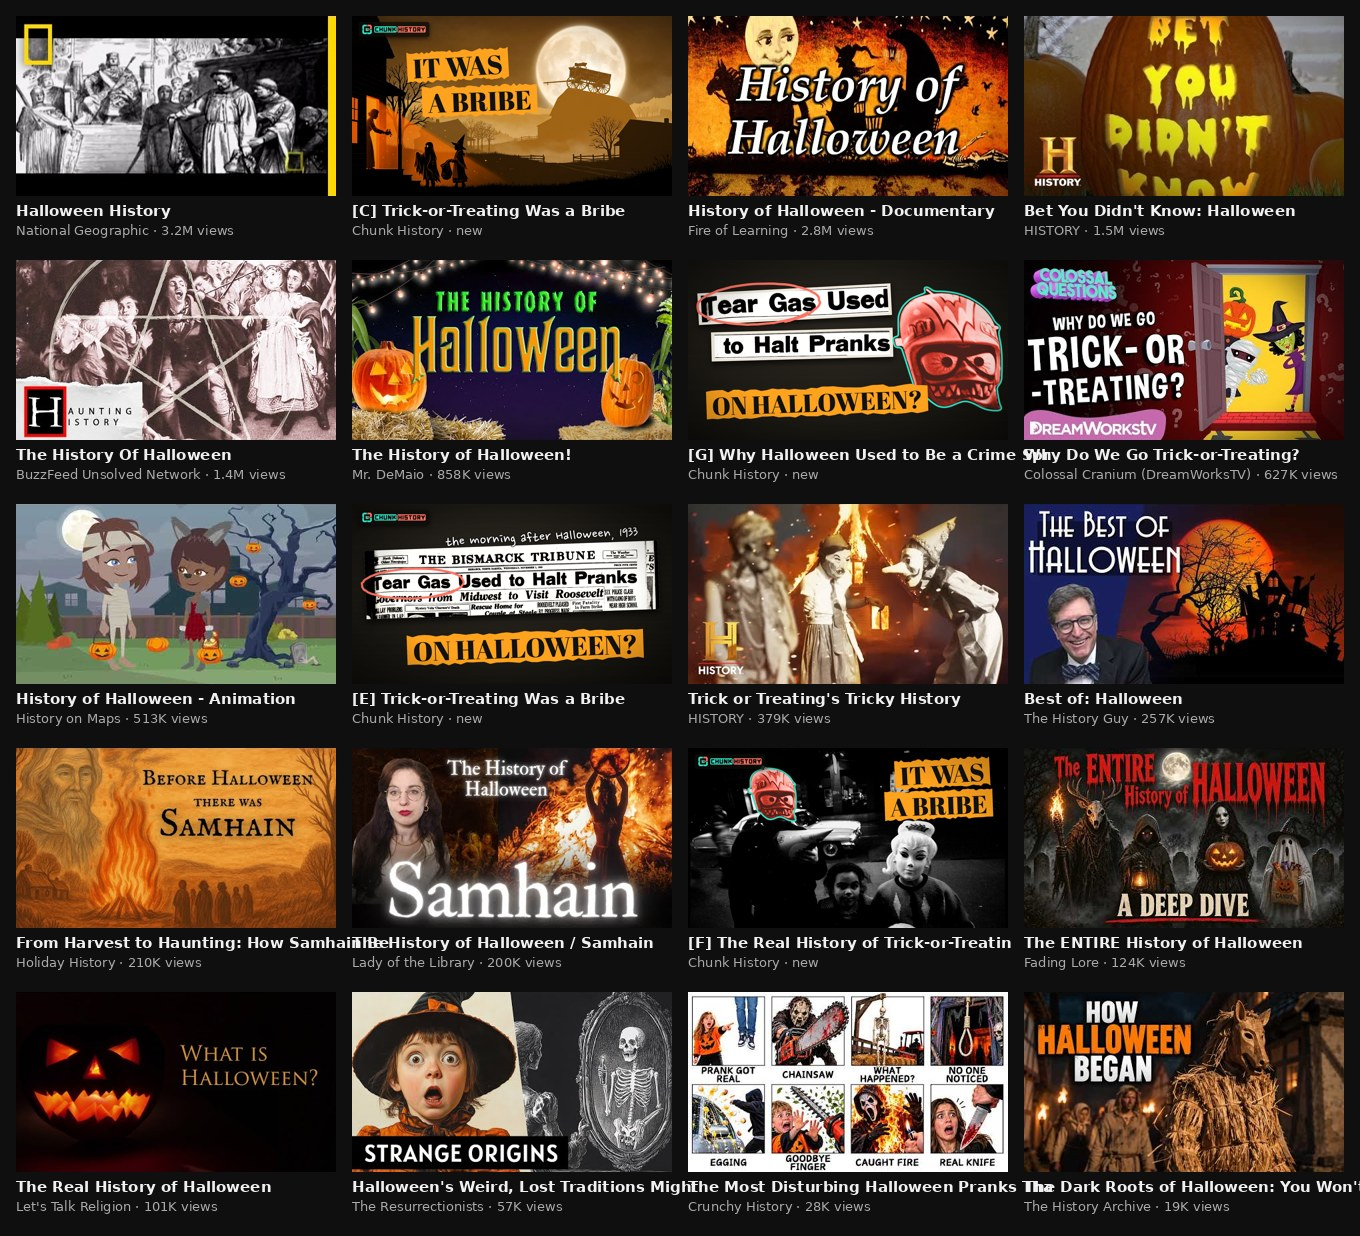
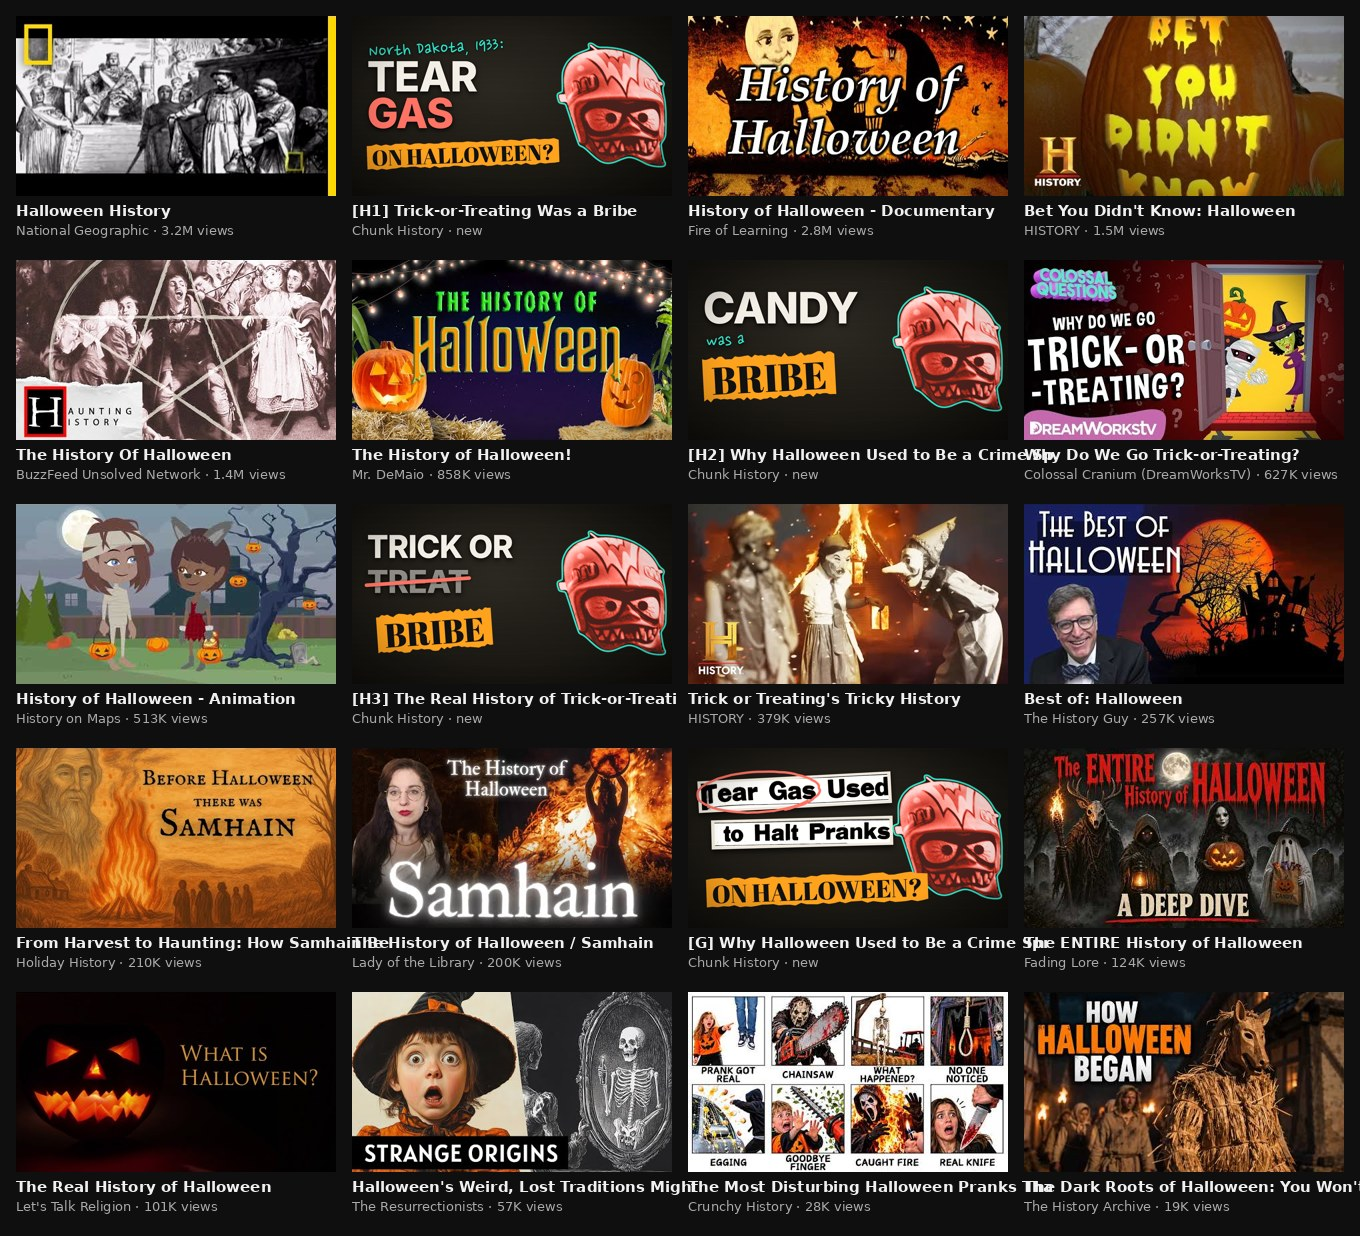
Halloween: clean-type thumbnail concepts H1-H4, feed mock takes concept keys
Claude-Session: https://claude.ai/code/session_017aRbDonm1FF42gZig9hAtV

diff --git a/projects/Halloween_Bribe/src/ThumbsHalloween.tsx b/projects/Halloween_Bribe/src/ThumbsHalloween.tsx
@@ -6,7 +6,7 @@
 //   F  · masked kids, 1964 (Angelo Rizzuto, LOC), one mask in coral.
 import React from 'react';
 import {AbsoluteFill, Img, staticFile} from 'remotion';
-import {Finish, Highlight, Loop, Note, PALETTES, PaletteCtx, Picture, Tint, Traced} from './kit/Kit';
+import {Finish, Highlight, JF, Loop, Note, PALETTES, PaletteCtx, Picture, Tint, Traced} from './kit/Kit';
 import {DarkPaper} from './kit/common';
 import {fill} from './kit/shell';
 import {MASKS} from './masks';
@@ -133,4 +133,80 @@ export const ThumbG: React.FC = () => {
   );
 };
 
-export const HALLOWEEN_THUMBS: Record<string, React.FC> = {C: ThumbC, C2: ThumbC2, D: ThumbD, E: ThumbE, F: ThumbF, G: ThumbG};
+
+// H1–H4 · clean type instead of newsprint (user note): big bold words in mixed faces and colours, the coral mask on the right.
+const CREAM = '#f4efe6';
+const TEALC = '#2FE0C4';
+const ORANGE_T = '#FF9F1C';
+const MaskHead: React.FC<{x?: number; y?: number; sc?: number}> = ({x = 1240, y = 170, sc = 1.45}) => {
+  const size: [number, number] = [3000, 2028];
+  const m = MASKS.kids;
+  const place = {left: x - 569 * sc, top: y - 178 * sc, scale: sc};
+  const cutStyle = {WebkitMaskImage: `url(${staticFile(m.alpha)})`, WebkitMaskSize: '100% 100%', maskImage: `url(${staticFile(m.alpha)})`, maskSize: '100% 100%'} as React.CSSProperties;
+  return (
+    <>
+      <div style={{position: 'absolute', left: place.left, top: place.top, width: size[0] * sc, height: size[1] * sc, ...cutStyle, filter: 'drop-shadow(0 20px 30px rgba(0,0,0,0.6))'}}>
+        <Picture src="img/ch05/kids_halloween_masks_nywts_1964.jpg" place={{left: 0, top: 0, scale: sc}} size={size} bw="grayscale(1) contrast(1.3)" />
+      </div>
+      <Tint mask={m.alpha} place={place} size={size} />
+      <Traced paths={m.data.shapes.subject} place={place} at={0} dur={1} width={10} />
+    </>
+  );
+};
+const Word: React.FC<{t: string; x: number; y: number; size: number; color: string; font?: string; weight?: number; rot?: number; spacing?: number}> = ({t, x, y, size, color, font = JF.sans, weight = 800, rot = 0, spacing = -0.02}) => (
+  <div style={{position: 'absolute', left: x, top: y, fontFamily: font, fontWeight: weight, fontSize: size, lineHeight: 0.9, color, letterSpacing: `${spacing}em`, whiteSpace: 'nowrap', transform: `rotate(${rot}deg)`, transformOrigin: 'left center',
+    textShadow: '0 6px 0 rgba(0,0,0,0.35), 0 10px 30px rgba(0,0,0,0.8)'}}>{t}</div>
+);
+const Clean: React.FC<{children: React.ReactNode}> = ({children}) => (
+  <PaletteCtx.Provider value={PALETTES.locked}>
+    <AbsoluteFill style={{background: '#000', overflow: 'hidden'}}>
+      <DarkPaper />
+      <MaskHead />
+      {children}
+      <Finish vignette={0.35} />
+    </AbsoluteFill>
+  </PaletteCtx.Provider>
+);
+
+/** H1 · TEAR GAS / ON HALLOWEEN? */
+export const ThumbH1: React.FC = () => (
+  <Clean>
+    <Note text="North Dakota, 1933:" x={100} y={120} size={80} rot={-3} at={0} color={TEALC} />
+    <Word t="TEAR" x={90} y={250} size={250} color={CREAM} />
+    <Word t="GAS" x={90} y={470} size={250} color={CORAL} />
+    <Highlight text="ON HALLOWEEN?" x={90} y={750} size={130} at={0} seed={93} rot={-2} />
+  </Clean>
+);
+
+/** H2 · CANDY WAS A BRIBE */
+export const ThumbH2: React.FC = () => (
+  <Clean>
+    <Word t="CANDY" x={90} y={170} size={260} color={CREAM} />
+    <Word t="was a" x={110} y={440} size={120} color={TEALC} font='"Nanum Pen Script", cursive' weight={400} rot={-4} spacing={0} />
+    <Highlight text="BRIBE" x={90} y={560} size={230} at={0} seed={94} rot={-3} />
+  </Clean>
+);
+
+/** H3 · TRICK OR TREAT, with TREAT struck out and BRIBE written in */
+export const ThumbH3: React.FC = () => (
+  <Clean>
+    <Word t="TRICK OR" x={90} y={170} size={190} color={CREAM} />
+    <div style={{position: 'absolute', left: 90, top: 380}}>
+      <Word t="TREAT" x={0} y={0} size={190} color="rgba(244,239,230,0.55)" />
+      <div style={{position: 'absolute', left: -15, top: 75, width: 640, height: 22, background: CORAL, transform: 'rotate(-4deg)', borderRadius: 11, boxShadow: '0 4px 12px rgba(0,0,0,0.6)'}} />
+    </div>
+    <Highlight text="BRIBE" x={150} y={640} size={200} at={0} seed={95} rot={-4} />
+  </Clean>
+);
+
+/** H4 · HALLOWEEN WAS A RIOT */
+export const ThumbH4: React.FC = () => (
+  <Clean>
+    <Note text="before candy..." x={100} y={130} size={80} rot={-3} at={0} color={TEALC} />
+    <Word t="HALLOWEEN" x={90} y={270} size={170} color={CREAM} />
+    <Word t="WAS A" x={90} y={450} size={120} color={CREAM} />
+    <Highlight text="RIOT" x={90} y={600} size={260} at={0} seed={96} rot={-3} />
+  </Clean>
+);
+
+export const HALLOWEEN_THUMBS: Record<string, React.FC> = {C: ThumbC, C2: ThumbC2, D: ThumbD, E: ThumbE, F: ThumbF, G: ThumbG, H1: ThumbH1, H2: ThumbH2, H3: ThumbH3, H4: ThumbH4};

diff --git a/projects/Halloween_Bribe/tools/feed_mock.py b/projects/Halloween_Bribe/tools/feed_mock.py
@@ -5,9 +5,12 @@ comp=[]
 for l in rows:
     c=[x.strip() for x in l.replace('\\|','/').split('|')]
     comp.append((f'research/competitors/{c[6]}.jpg', c[2].replace('\\',''), f'{c[3]} · {c[4]} views'))
-ours={'C':'Trick-or-Treating Was a Bribe','G':'Why Halloween Used to Be a Crime Spree','E':'Trick-or-Treating Was a Bribe','F':'The Real History of Trick-or-Treating'}
+# Our concepts and their paired titles; pass keys on the command line to choose (default: H1 H2 H3 G)
+TITLES={'C':'Trick-or-Treating Was a Bribe','D':'Why Halloween Used to Be a Crime Spree','E':'Trick-or-Treating Was a Bribe','F':'The Real History of Trick-or-Treating','G':'Why Halloween Used to Be a Crime Spree','H1':'Trick-or-Treating Was a Bribe','H2':'Why Halloween Used to Be a Crime Spree','H3':'The Real History of Trick-or-Treating','H4':'The Real History of Trick-or-Treating'}
+keys=sys.argv[1:] or ['H1','H2','H3','G']
+ours={k:TITLES[k] for k in keys}
 items=list(comp)
-for i,k in zip([1,6,9,14],'CGEF'):
+for i,k in zip([1,6,9,14],keys):
     items.insert(i,(f'renders/thumbnails/Halloween_Bribe_{k}.png',f'[{k}] '+ours[k],'Chunk History · new'))
 F='/usr/share/fonts/truetype/dejavu/DejaVuSans.ttf'
 fb=ImageFont.truetype(F.replace('Sans','Sans-Bold'),15); fs=ImageFont.truetype(F,13)
